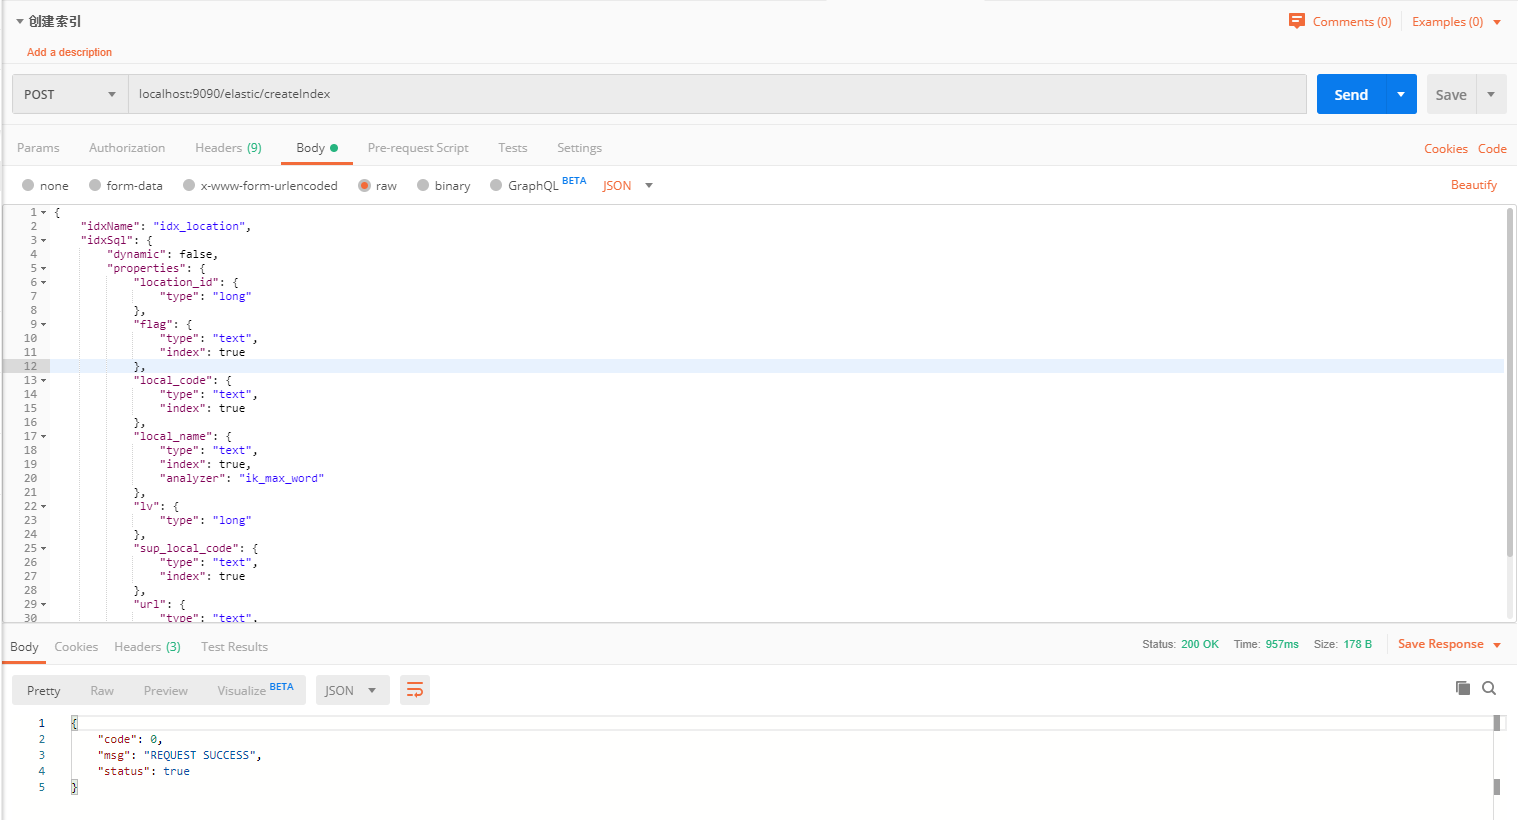
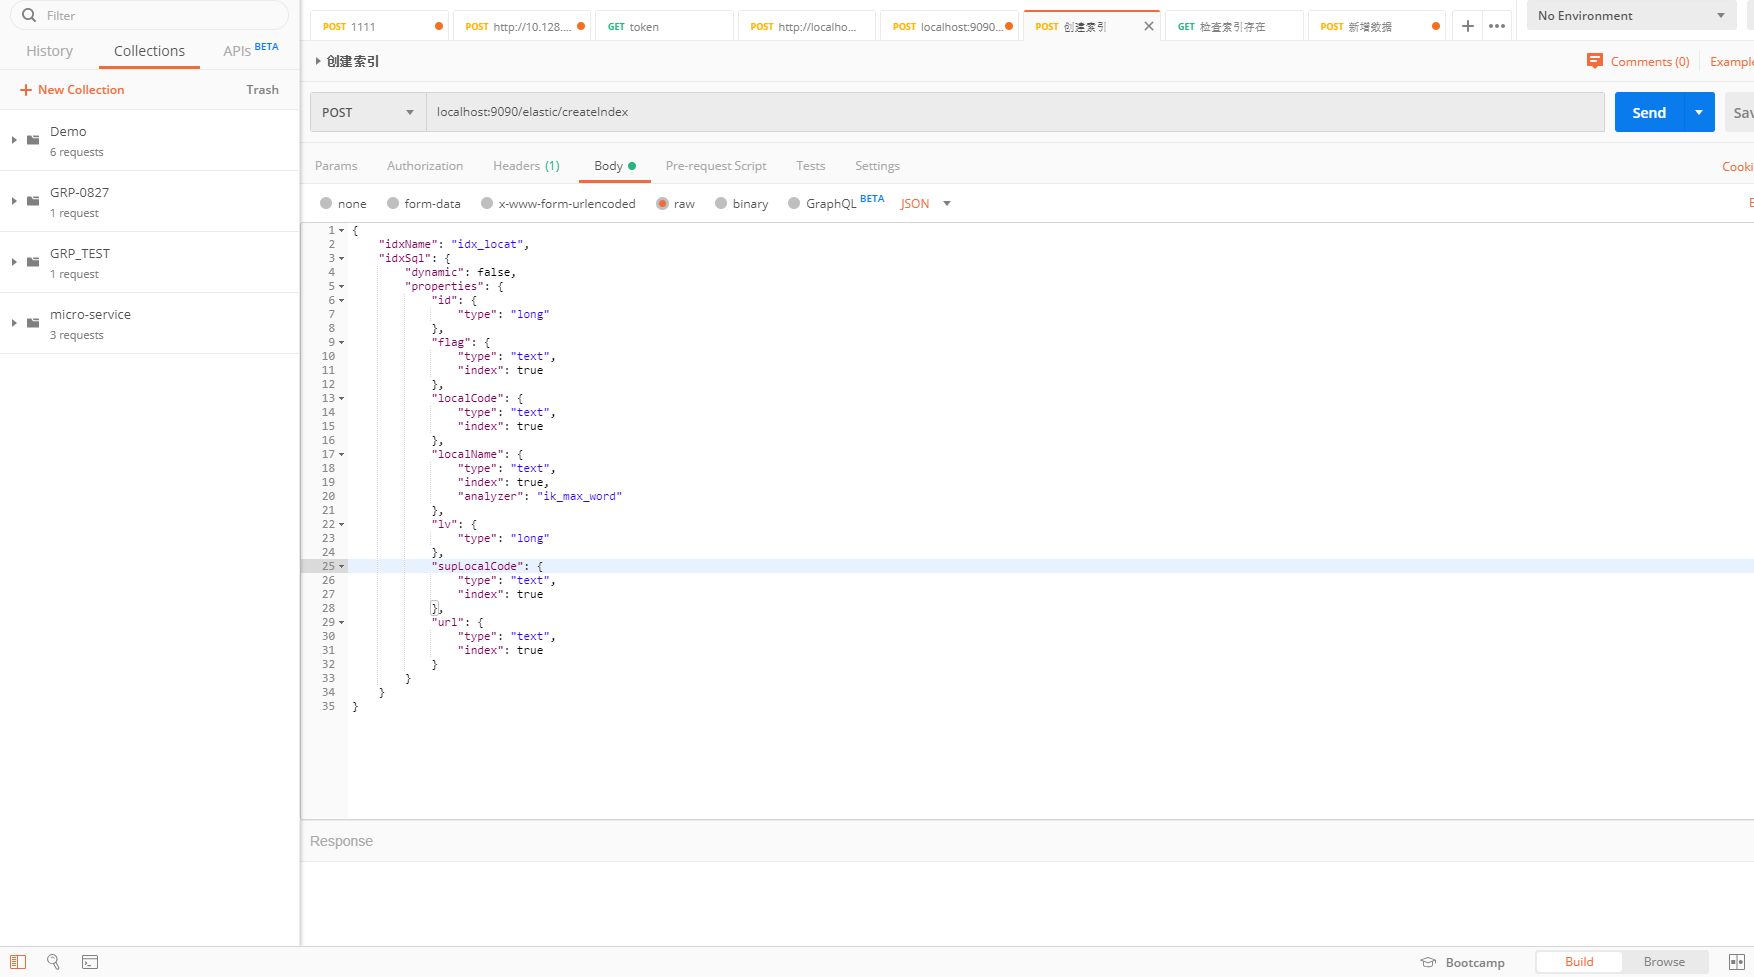
添加Demo

diff --git a/akkad-springboot/springboot-elasticsearch/es-footman/src/main/java/xyz/wongs/weathertop/palant/controller/ElasticMgrController.java b/akkad-springboot/springboot-elasticsearch/es-footman/src/main/java/xyz/wongs/weathertop/palant/controller/ElasticMgrController.java
@@ -1,10 +1,18 @@
 package xyz.wongs.weathertop.palant.controller;
 
 import lombok.extern.slf4j.Slf4j;
+import org.springframework.beans.factory.annotation.Autowired;
+import org.springframework.web.bind.annotation.RequestBody;
 import org.springframework.web.bind.annotation.RequestMapping;
+import org.springframework.web.bind.annotation.RequestMethod;
 import org.springframework.web.bind.annotation.RestController;
+import xyz.wongs.weathertop.base.dao.BaseElasticDao;
+import xyz.wongs.weathertop.base.entiy.ElasticEntity;
+import xyz.wongs.weathertop.base.message.enums.ResponseCode;
+import xyz.wongs.weathertop.base.message.response.ResponseResult;
+import xyz.wongs.weathertop.palant.vo.LocationVo;
 
-/** 插入数据
+/** 数据管理
  * @ClassName ElasticMgrController
  * @Description 
  * @author WCNGS@QQ.COM
@@ -16,6 +24,45 @@ import org.springframework.web.bind.annotation.RestController;
 @RequestMapping("/elasticMgr")
 @RestController
 public class ElasticMgrController {
+
+    @Autowired
+    private BaseElasticDao baseElasticDao;
+
+    @RequestMapping(value = "/add",method = RequestMethod.POST)
+    public ResponseResult add(@RequestBody LocationVo locationVo){
+        ResponseResult response = new ResponseResult();
+        try {
+            ElasticEntity elasticEntity = new ElasticEntity();
+            elasticEntity.setId(locationVo.getLocationEntity().getId());
+            elasticEntity.setData(locationVo.getLocationEntity().getLocation());
+
+            baseElasticDao.insertOrUpdateOne(locationVo.getIdxName(), elasticEntity);
+        } catch (Exception e) {
+            response.setCode(ResponseCode.ERROR.getCode());
+            response.setMsg("服务忙，请稍后再试");
+            response.setStatus(false);
+            log.error("插入数据异常，metadataVo={},异常信息={}", locationVo.toString(),e.getMessage());
+        }
+        return response;
+    }
+
+    @RequestMapping(value = "/get",method = RequestMethod.GET)
+    public ResponseResult get(@RequestBody LocationVo locationVo){
+        ResponseResult response = new ResponseResult();
+        try {
+            ElasticEntity elasticEntity = new ElasticEntity();
+            elasticEntity.setId(locationVo.getLocationEntity().getId());
+            elasticEntity.setData(locationVo.getLocationEntity().getLocation());
+
+            baseElasticDao.insertOrUpdateOne(locationVo.getIdxName(), elasticEntity);
+        } catch (Exception e) {
+            response.setCode(ResponseCode.ERROR.getCode());
+            response.setMsg("服务忙，请稍后再试");
+            response.setStatus(false);
+            log.error("插入数据异常，metadataVo={},异常信息={}", locationVo.toString(),e.getMessage());
+        }
+        return response;
+    }
 
 
 }

diff --git a/akkad-springboot/springboot-elasticsearch/es-footman/src/main/java/xyz/wongs/weathertop/palant/vo/LocationVo.java b/akkad-springboot/springboot-elasticsearch/es-footman/src/main/java/xyz/wongs/weathertop/palant/vo/LocationVo.java
@@ -1,0 +1,42 @@
+package xyz.wongs.weathertop.palant.vo;
+
+import lombok.AllArgsConstructor;
+import lombok.Data;
+import lombok.NoArgsConstructor;
+import xyz.wongs.weathertop.location.entity.Location;
+
+@Data
+@NoArgsConstructor
+@AllArgsConstructor
+public class LocationVo<T> {
+
+    /**
+     * idxName : idx_location
+     * elasticEntity : {"id":1,"location":{"location_id":"143831","flag":"Y","local_code":"11","local_name":"市","lv":2,"sup_local_code":"0","url":"11.html"}}
+     */
+
+    private String idxName;
+    private LocationEntity locationEntity;
+
+    public static class LocationEntity {
+        private String id;
+        private Location location;
+
+        public String getId() {
+            return id;
+        }
+
+        public void setId(String id) {
+            this.id = id;
+        }
+
+        public Location getLocation() {
+            return location;
+        }
+
+        public void setLocation(Location location) {
+            this.location = location;
+        }
+    }
+
+}

diff --git a/akkad-base/base-persistence/persistence-mybatis/src/main/java/xyz/wongs/weathertop/base/persistence/mybatis/entity/BaseEntity.java b/akkad-base/base-persistence/persistence-mybatis/src/main/java/xyz/wongs/weathertop/base/persistence/mybatis/entity/BaseEntity.java
@@ -1,16 +1,14 @@
 package xyz.wongs.weathertop.base.persistence.mybatis.entity;
 
-import com.fasterxml.jackson.annotation.JsonIgnore;
-import xyz.wongs.weathertop.base.persistence.mybatis.stas.Cons;
+import com.alibaba.fastjson.annotation.JSONField;
 import xyz.wongs.weathertop.base.persistence.mybatis.config.Global;
+import xyz.wongs.weathertop.base.persistence.mybatis.stas.Cons;
 
 import java.io.Serializable;
 
 public abstract class BaseEntity<ID extends Serializable> extends IdEntity<ID> {
 
-
-
-    @JsonIgnore
+    @JSONField
     private String dtype;
 
     public String getDtype() {

diff --git a/akkad-base/base-utils/src/main/java/xyz/wongs/weathertop/base/message/enums/ResponseCode.java b/akkad-base/base-utils/src/main/java/xyz/wongs/weathertop/base/message/enums/ResponseCode.java
@@ -31,7 +31,7 @@ public enum ResponseCode {
     ALGORITHM_CAN_NOT_NULL(10003,"加密方式不能为空，可选 RS256、HS256"),
     VALID_ENTITY_PARAMS(10004,"请求参数校验不匹配"),
     VALID_UNION_PARAMS(10005,"实体对象传参不匹配"),
-    NOT_EXISTS_USER(10006,"不存在改用户信息"),
+    NOT_EXISTS_USER(10006,"不存在该用户信息"),
     AUTHENTICATION_FAILED_ERROR(10009, "用户或者密码不正确"),
 
     PARAM_ERROR_CODE(2001,"参数不合规"),

diff --git a/akkad-springboot/springboot-elasticsearch/es-footman/src/main/java/xyz/wongs/weathertop/palant/vo/IdxVo.java b/akkad-springboot/springboot-elasticsearch/es-footman/src/main/java/xyz/wongs/weathertop/palant/vo/IdxVo.java
@@ -28,22 +28,6 @@ public class IdxVo {
     private String idxName;
     private IdxSql idxSql;
 
-    public String getIdxName() {
-        return idxName;
-    }
-
-    public void setIdxName(String idxName) {
-        this.idxName = idxName;
-    }
-
-    public IdxSql getIdxSql() {
-        return idxSql;
-    }
-
-    public void setIdxSql(IdxSql idxSql) {
-        this.idxSql = idxSql;
-    }
-
     public static class IdxSql {
         /**
          * dynamic : false

diff --git a/akkad-springboot/springboot-elasticsearch/es-footman/src/main/java/xyz/wongs/weathertop/base/dao/BaseElasticDao.java b/akkad-springboot/springboot-elasticsearch/es-footman/src/main/java/xyz/wongs/weathertop/base/dao/BaseElasticDao.java
@@ -113,6 +113,7 @@ public class BaseElasticDao {
     public void insertOrUpdateOne(String idxName, ElasticEntity entity) {
 
         IndexRequest request = new IndexRequest(idxName);
+        log.error("Data : id={},entity={}",entity.getId(),JSON.toJSONString(entity.getData()));
         request.id(entity.getId());
         request.source(JSON.toJSONString(entity.getData()), XContentType.JSON);
         try {

diff --git a/akkad-springboot/springboot-elasticsearch/elastic.md b/akkad-springboot/springboot-elasticsearch/elastic.md
@@ -1068,22 +1068,22 @@ public class BaseElasticDao {
 
 ~~~
 {
-    "idxName": "idx_location",
+    "idxName": "idx_locat",
     "idxSql": {
         "dynamic": false,
         "properties": {
-            "location_id": {
+            "id": {
                 "type": "long"
             },
             "flag": {
                 "type": "text",
                 "index": true
             },
-            "local_code": {
+            "localCode": {
                 "type": "text",
                 "index": true
             },
-            "local_name": {
+            "localName": {
                 "type": "text",
                 "index": true,
                 "analyzer": "ik_max_word"
@@ -1091,7 +1091,7 @@ public class BaseElasticDao {
             "lv": {
                 "type": "long"
             },
-            "sup_local_code": {
+            "supLocalCode": {
                 "type": "text",
                 "index": true
             },
@@ -1156,15 +1156,17 @@ public ResponseResult createIndex(@RequestBody IdxVo idxVo){
 
 ~~~
 
-[elastic@localhost logs]$ curl -H "Content-Type: application/json" -X GET "http://localhost:9200/_cat/indices?v"
+[elastic@localhost elastic]$ curl -H "Content-Type: application/json" -X GET "http://localhost:9200/_cat/indices?v"
 health status index        uuid                   pri rep docs.count docs.deleted store.size pri.store.size
 yellow open   twitter      scSSD1SfRCio4F77Hh8aqQ   3   2          2            0      8.3kb          8.3kb
-yellow open   idx_location _BJ_pOv0SkS4tv-EC3xDig   3   2          0            0       230b           230b
+yellow open   idx_location _BJ_pOv0SkS4tv-EC3xDig   3   2          1            0        4kb            4kb
 yellow open   wongs        uT13XiyjSW-VOS3GCqao8w   3   2          1            0      3.4kb          3.4kb
+yellow open   idx_locat    Kr3wGU7JT_OUrRJkyFSGDw   3   2          3            0     13.2kb         13.2kb
 yellow open   idx_copy_to  HouC9s6LSjiwrJtDicgY3Q   3   2          1            0        4kb            4kb
+
 ~~~
 
-![elastic](https://raw.githubusercontent.com/rothschil/weathertop/master/doc/image/elastic/16.png)
+![elastic](https://raw.githubusercontent.com/rothschil/weathertop/master/doc/image/elastic/17.png)
 
 # 4. 源码
 
